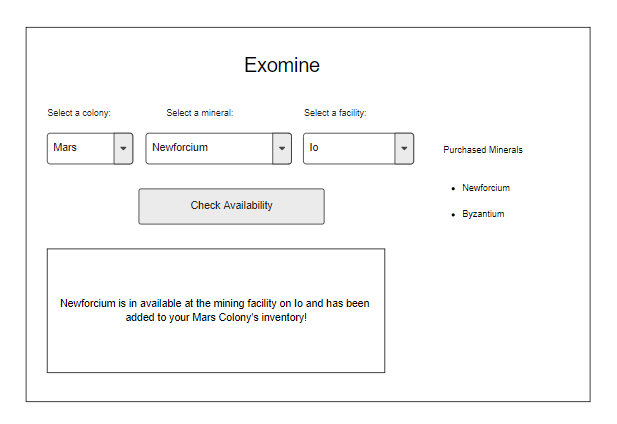
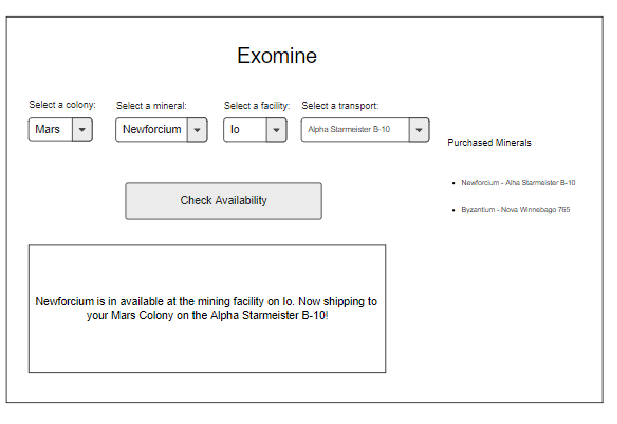
added wire frame

diff --git a/scripts/database.js b/scripts/database.js
@@ -29,6 +29,16 @@ const database = {
       name: "Jupiter",
     },
   ],
+  transports : [
+    {
+        id: 1,
+        name: "Alpha Starmeister B-10"
+    },
+    {
+        id: 2,
+        name: "Nova Winnebago 765-00"
+    }
+  ],
   transientState: {},
 };
 

diff --git a/README.md b/README.md
@@ -34,8 +34,13 @@ You will need at least three colonies in your application. (Two have been seeded
 ## Mining Facilities
 You will need at least three mining facilities in your application. (Two have been seeded for you. Invent one more in `scripts/database.js`!) Each mining facilitiy needs to track which minerals that are current available at that facility. You don't need to worry about quantities of minerals. You can assume that all space minerals come in standard shipment sizes, and that each mining facility has an unlimited amount of minerals.
 
+## Transports
+Transports can move minerals from facilities to colonies. There are no restrictions about which transports can move which minerals to which colonies. When you purchase a mineral, you'll need to keep track of which transport you're using to ship it to your colony.
+
 ## Minerals
 Any given mineral can be mined at many facilities and can be purchased by many colonies.
+
+
 
 ## An Important Word about Seed Data
 Some of your data structure has been given to you. Take a look at `scripts/database.js` to see a starting point. This data structure is not comprehensive. **You will need to add more tables.** Read the above instructions and discuss with your team to figure out what tables you need to add.
